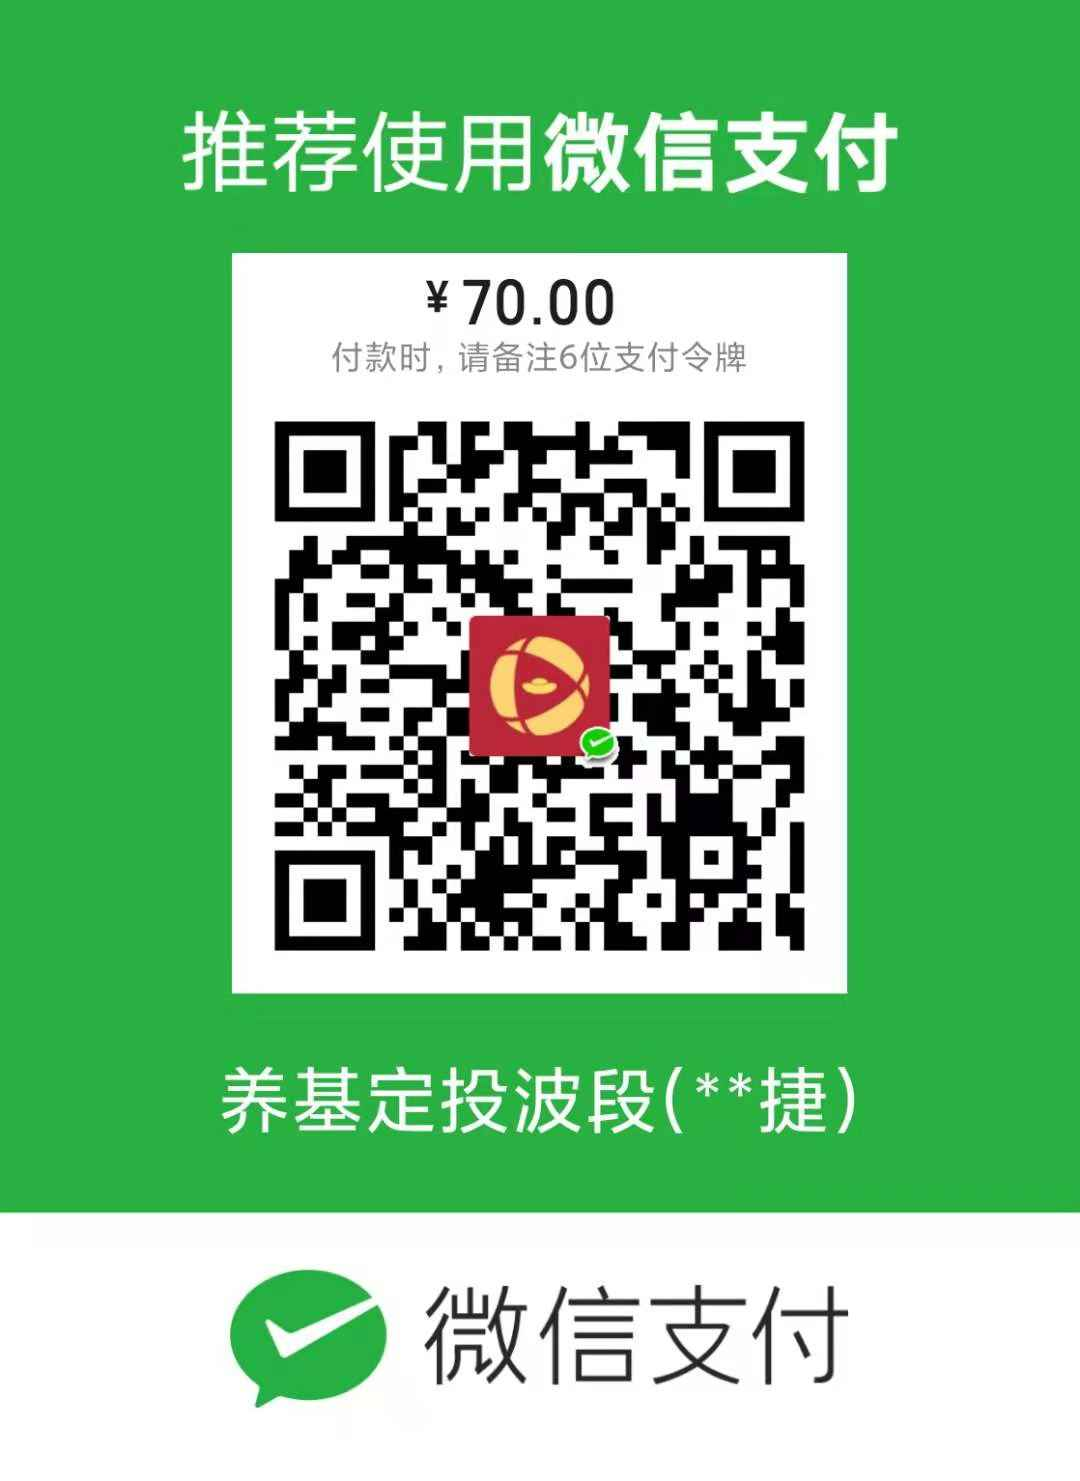
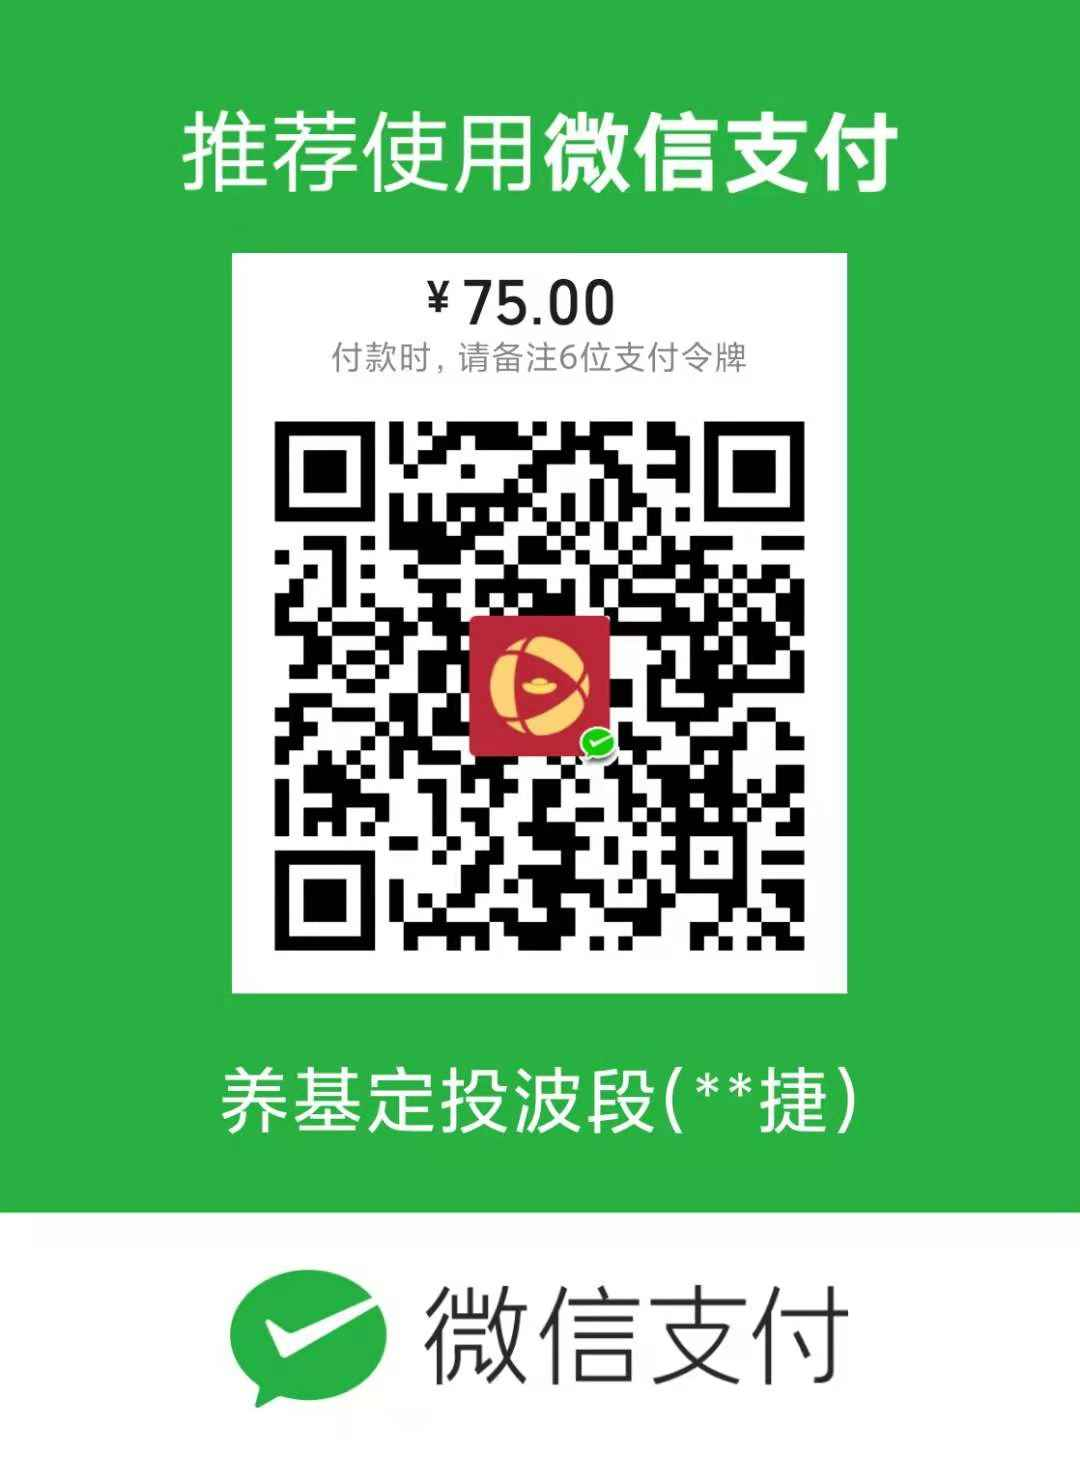
xg

Changed region(s): [[0.2444, 0.2795, 0.7639, 0.6523], [0.3972, 0.1864, 0.4889, 0.2174]]

diff --git a/src/routers/AppLayout/index.vue b/src/routers/AppLayout/index.vue
@@ -14,13 +14,13 @@
             <van-icon v-else name="wap-home-o" />
           </template>
         </van-tabbar-item>
-        <van-tabbar-item name="/home/chat" replace to="/home/chat">
-          <span>消息</span>
-          <template #icon="props">
-            <van-icon v-if="props.active" name="comment"/>
-            <van-icon v-else name="comment-o" />
-          </template>
-        </van-tabbar-item>
+        <!--<van-tabbar-item name="/home/chat" replace to="/home/chat">-->
+          <!--<span>消息</span>-->
+          <!--<template #icon="props">-->
+            <!--<van-icon v-if="props.active" name="comment"/>-->
+            <!--<van-icon v-else name="comment-o" />-->
+          <!--</template>-->
+        <!--</van-tabbar-item>-->
         <van-tabbar-item name="/home/gzh" replace to="/home/gzh">
           <span>公众号</span>
           <template #icon="props">

diff --git a/src/routers/VipBuy/index.vue b/src/routers/VipBuy/index.vue
@@ -71,8 +71,8 @@ export default {
       cardList: [
         {day: 1, money: 4},
         {day: 20, money: 15},
-        {day: 60, money: 40},
-        {day: 120, money: 70},
+        {day: 60, money: 42},
+        {day: 120, money: 75},
         {day: 240, money: 120}
       ],
       buyBLoading: false
